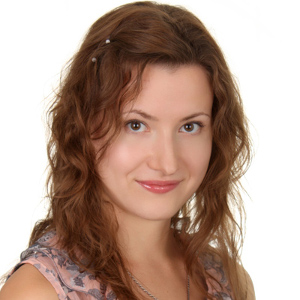
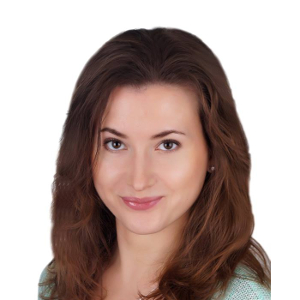
Maria's photo changed. Draft version of the calendar added

diff --git a/index.html b/index.html
@@ -78,7 +78,11 @@
 	            <div class="calendar__container container">
 	                <div class="row">
 	                    <div class="col s12 m12 l12"><div class="calendar__header">Calendar</div></div>
-	                    <div class="calendar__content col s12 m12 l12">We need a calendar here ...</div>
+	                    <div class="calendar__content col s12 m12 l12">
+	                    	<div class="col s12 m12 l12">
+	                    		<div class="calendar__body"><div class="picker__date-display"><div class="picker__weekday-display">Sunday</div><div class="picker__month-display"><div>May</div></div><div class="picker__day-display"><div>8</div></div><div class="picker__year-display"><div>2016</div></div></div><div class="picker__calendar-container"><div class="picker__header"><select class="picker__select--month browser-default" aria-controls="P894950843_table" title="Select a month"><option value="0">January</option><option value="1">February</option><option value="2">March</option><option value="3">April</option><option value="4" selected="">May</option><option value="5">June</option><option value="6">July</option><option value="7">August</option><option value="8">September</option><option value="9">October</option><option value="10">November</option><option value="11">December</option></select><select class="picker__select--year browser-default" aria-controls="P894950843_table" title="Select a year"><option value="2009">2009</option><option value="2010">2010</option><option value="2011">2011</option><option value="2012">2012</option><option value="2013">2013</option><option value="2014">2014</option><option value="2015">2015</option><option value="2016" selected="">2016</option><option value="2017">2017</option><option value="2018">2018</option><option value="2019">2019</option><option value="2020">2020</option><option value="2021">2021</option><option value="2022">2022</option><option value="2023">2023</option></select><div class="picker__nav--prev" data-nav="-1" role="button" aria-controls="P894950843_table" title="Previous month"> </div><div class="picker__nav--next" data-nav="1" role="button" aria-controls="P894950843_table" title="Next month"> </div></div><table class="picker__table" id="P894950843_table" role="grid" aria-controls="P894950843" aria-readonly="true"><thead><tr><th class="picker__weekday" scope="col" title="Sunday">S</th><th class="picker__weekday" scope="col" title="Monday">M</th><th class="picker__weekday" scope="col" title="Tuesday">T</th><th class="picker__weekday" scope="col" title="Wednesday">W</th><th class="picker__weekday" scope="col" title="Thursday">T</th><th class="picker__weekday" scope="col" title="Friday">F</th><th class="picker__weekday" scope="col" title="Saturday">S</th></tr></thead><tbody><tr><td role="presentation"><div class="picker__day picker__day--infocus" data-pick="1462050000000" role="gridcell" aria-label="1 May, 2016">1</div></td><td role="presentation"><div class="picker__day picker__day--infocus" data-pick="1462136400000" role="gridcell" aria-label="2 May, 2016">2</div></td><td role="presentation"><div class="picker__day picker__day--infocus" data-pick="1462222800000" role="gridcell" aria-label="3 May, 2016">3</div></td><td role="presentation"><div class="picker__day picker__day--infocus" data-pick="1462309200000" role="gridcell" aria-label="4 May, 2016">4</div></td><td role="presentation"><div class="picker__day picker__day--infocus" data-pick="1462395600000" role="gridcell" aria-label="5 May, 2016">5</div></td><td role="presentation"><div class="picker__day picker__day--infocus" data-pick="1462482000000" role="gridcell" aria-label="6 May, 2016">6</div></td><td role="presentation"><div class="picker__day picker__day--infocus" data-pick="1462568400000" role="gridcell" aria-label="7 May, 2016">7</div></td></tr><tr><td role="presentation"><div class="picker__day picker__day--infocus picker__day--today picker__day--highlighted" data-pick="1462654800000" role="gridcell" aria-label="8 May, 2016" aria-activedescendant="true">8</div></td><td role="presentation"><div class="picker__day picker__day--infocus" data-pick="1462741200000" role="gridcell" aria-label="9 May, 2016">9</div></td><td role="presentation"><div class="picker__day picker__day--infocus" data-pick="1462827600000" role="gridcell" aria-label="10 May, 2016">10</div></td><td role="presentation"><div class="picker__day picker__day--infocus" data-pick="1462914000000" role="gridcell" aria-label="11 May, 2016">11</div></td><td role="presentation"><div class="picker__day picker__day--infocus" data-pick="1463000400000" role="gridcell" aria-label="12 May, 2016">12</div></td><td role="presentation"><div class="picker__day picker__day--infocus" data-pick="1463086800000" role="gridcell" aria-label="13 May, 2016">13</div></td><td role="presentation"><div class="picker__day picker__day--infocus" data-pick="1463173200000" role="gridcell" aria-label="14 May, 2016">14</div></td></tr><tr><td role="presentation"><div class="picker__day picker__day--infocus" data-pick="1463259600000" role="gridcell" aria-label="15 May, 2016">15</div></td><td role="presentation"><div class="picker__day picker__day--infocus" data-pick="1463346000000" role="gridcell" aria-label="16 May, 2016">16</div></td><td role="presentation"><div class="picker__day picker__day--infocus" data-pick="1463432400000" role="gridcell" aria-label="17 May, 2016">17</div></td><td role="presentation"><div class="picker__day picker__day--infocus" data-pick="1463518800000" role="gridcell" aria-label="18 May, 2016">18</div></td><td role="presentation"><div class="picker__day picker__day--infocus" data-pick="1463605200000" role="gridcell" aria-label="19 May, 2016">19</div></td><td role="presentation"><div class="picker__day picker__day--infocus" data-pick="1463691600000" role="gridcell" aria-label="20 May, 2016">20</div></td><td role="presentation"><div class="picker__day picker__day--infocus" data-pick="1463778000000" role="gridcell" aria-label="21 May, 2016">21</div></td></tr><tr><td role="presentation"><div class="picker__day picker__day--infocus" data-pick="1463864400000" role="gridcell" aria-label="22 May, 2016">22</div></td><td role="presentation"><div class="picker__day picker__day--infocus" data-pick="1463950800000" role="gridcell" aria-label="23 May, 2016">23</div></td><td role="presentation"><div class="picker__day picker__day--infocus" data-pick="1464037200000" role="gridcell" aria-label="24 May, 2016">24</div></td><td role="presentation"><div class="picker__day picker__day--infocus" data-pick="1464123600000" role="gridcell" aria-label="25 May, 2016">25</div></td><td role="presentation"><div class="picker__day picker__day--infocus" data-pick="1464210000000" role="gridcell" aria-label="26 May, 2016">26</div></td><td role="presentation"><div class="picker__day picker__day--infocus" data-pick="1464296400000" role="gridcell" aria-label="27 May, 2016">27</div></td><td role="presentation"><div class="picker__day picker__day--infocus" data-pick="1464382800000" role="gridcell" aria-label="28 May, 2016">28</div></td></tr><tr><td role="presentation"><div class="picker__day picker__day--infocus" data-pick="1464469200000" role="gridcell" aria-label="29 May, 2016">29</div></td><td role="presentation"><div class="picker__day picker__day--infocus" data-pick="1464555600000" role="gridcell" aria-label="30 May, 2016">30</div></td><td role="presentation"><div class="picker__day picker__day--infocus" data-pick="1464642000000" role="gridcell" aria-label="31 May, 2016">31</div></td><td role="presentation"><div class="picker__day picker__day--outfocus" data-pick="1464728400000" role="gridcell" aria-label="1 June, 2016">1</div></td><td role="presentation"><div class="picker__day picker__day--outfocus" data-pick="1464814800000" role="gridcell" aria-label="2 June, 2016">2</div></td><td role="presentation"><div class="picker__day picker__day--outfocus" data-pick="1464901200000" role="gridcell" aria-label="3 June, 2016">3</div></td><td role="presentation"><div class="picker__day picker__day--outfocus" data-pick="1464987600000" role="gridcell" aria-label="4 June, 2016">4</div></td></tr><tr><td role="presentation"><div class="picker__day picker__day--outfocus" data-pick="1465074000000" role="gridcell" aria-label="5 June, 2016">5</div></td><td role="presentation"><div class="picker__day picker__day--outfocus" data-pick="1465160400000" role="gridcell" aria-label="6 June, 2016">6</div></td><td role="presentation"><div class="picker__day picker__day--outfocus" data-pick="1465246800000" role="gridcell" aria-label="7 June, 2016">7</div></td><td role="presentation"><div class="picker__day picker__day--outfocus" data-pick="1465333200000" role="gridcell" aria-label="8 June, 2016">8</div></td><td role="presentation"><div class="picker__day picker__day--outfocus" data-pick="1465419600000" role="gridcell" aria-label="9 June, 2016">9</div></td><td role="presentation"><div class="picker__day picker__day--outfocus" data-pick="1465506000000" role="gridcell" aria-label="10 June, 2016">10</div></td><td role="presentation"><div class="picker__day picker__day--outfocus" data-pick="1465592400000" role="gridcell" aria-label="11 June, 2016">11</div></td></tr></tbody></table></div><div class="picker__footer"><button class="btn-flat picker__today" type="button" data-pick="1462654800000" aria-controls="P894950843">Today</button><button class="btn-flat picker__clear" type="button" data-clear="1" aria-controls="P894950843">Clear</button><button class="btn-flat picker__close" type="button" data-close="true" aria-controls="P894950843">Close</button></div></div>
+	                    	</div>
+	                    </div>
 	                </div>
 	            </div>
             </div>
@@ -146,33 +150,7 @@
 
         <script type="text/javascript" src="https://code.jquery.com/jquery-2.2.3.min.js"></script>
         <script type="text/javascript" src="https://cdnjs.cloudflare.com/ajax/libs/materialize/0.97.6/js/materialize.min.js"></script>
-        <script>
-			function initMap() {
-				var map = new google.maps.Map(document.querySelector('.location__map'), {
-					center: {
-						lat: 50.447345,
-						lng: 30.516806
-					},
-					zoom: 17,
-					zoomControl: true,
-					panControl: false,
-					scrollwheel: false,
-					rotateControl: false,
-					scaleControl: false,
-					mapTypeControl: false,
-					streetViewControl: false,
-					overviewMapControl: false
-				});
-
-				var marker = new google.maps.Marker({
-				    position: {
-						lat: 50.4474271,
-						lng: 30.5159097
-					},
-				    map: map
-				  });
-			}
-        </script>
-        <script src="https://maps.googleapis.com/maps/api/js?key=AIzaSyD7sVk3--heBQrpSHBwPqRAaWa-B9BikP0&callback=initMap"></script>
+        <script type="text/javascript" src="js/debatorium.js"></script>
+        <script type="text/javascript" src="https://maps.googleapis.com/maps/api/js?key=AIzaSyD7sVk3--heBQrpSHBwPqRAaWa-B9BikP0&callback=init.map"></script>
     </body>
 </html>

diff --git a/js/debatorium.js b/js/debatorium.js
@@ -1,0 +1,32 @@
+var init = {
+	map: function() {
+		var map = new google.maps.Map(document.querySelector('.location__map'), {
+			center: {
+				lat: 50.4471435,
+				lng: 30.5160441
+			},
+			zoom: 17,
+			zoomControl: true,
+			panControl: false,
+			scrollwheel: false,
+			rotateControl: false,
+			scaleControl: false,
+			mapTypeControl: false,
+			streetViewControl: false,
+			overviewMapControl: false
+		});
+
+		var marker = new google.maps.Marker({
+			position: {
+				lat: 50.4474271,
+				lng: 30.5159097
+			},
+			map: map
+		});
+	}
+};
+
+$('.datepicker').pickadate({
+	selectMonths: true,
+	selectYears: 15
+});

diff --git a/css/debatorium.css b/css/debatorium.css
@@ -120,6 +120,9 @@
 	padding-bottom: 2em;
 }
 .location__map {
+	border-style: solid;
+	border-width: .1em;
+	border-color: #e5e5e5;
 	height: 500px;
 }
 
@@ -149,6 +152,11 @@
 	font-style: normal;
 	font-weight: 400;
 	color: #999999;
+}
+.calendar__body {
+	border-style: solid;
+	border-width: .1em;
+	border-color: #e5e5e5;
 }
 
 .team {
@@ -192,7 +200,7 @@
 }
 .team-member__photo__image {
 	border-style: solid;
-	border-width: .2em;
+	border-width: .1em;
 	border-color: #e5e5e5;
 	width: 15em;
 	height: 15em
